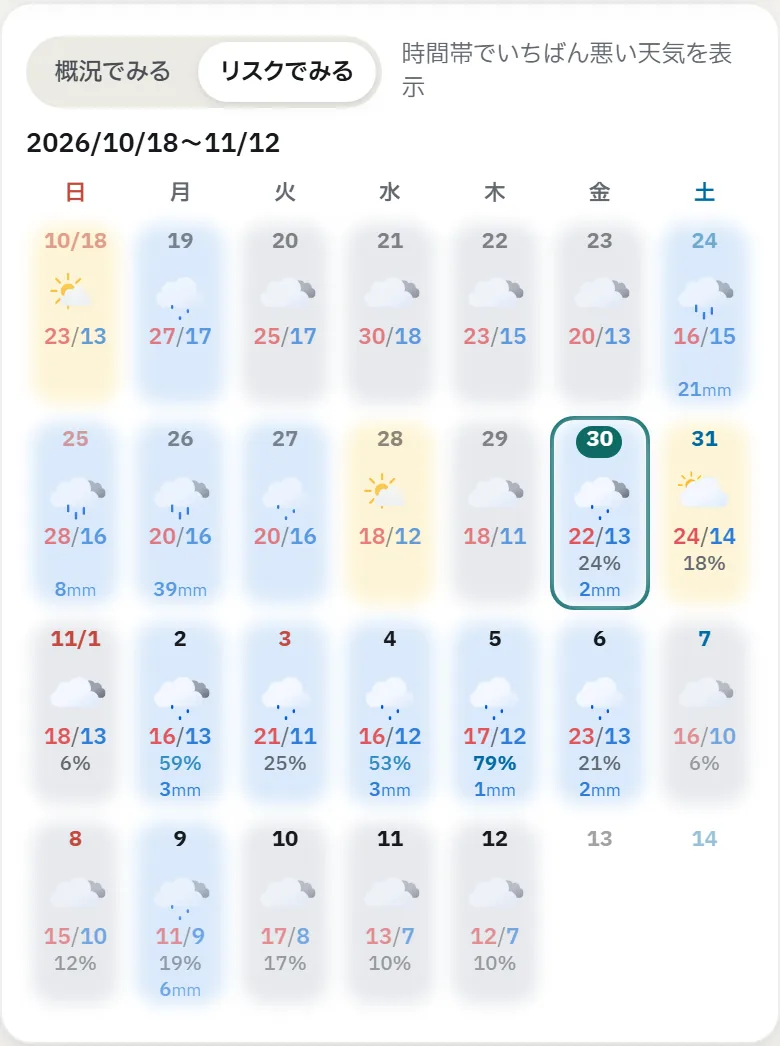
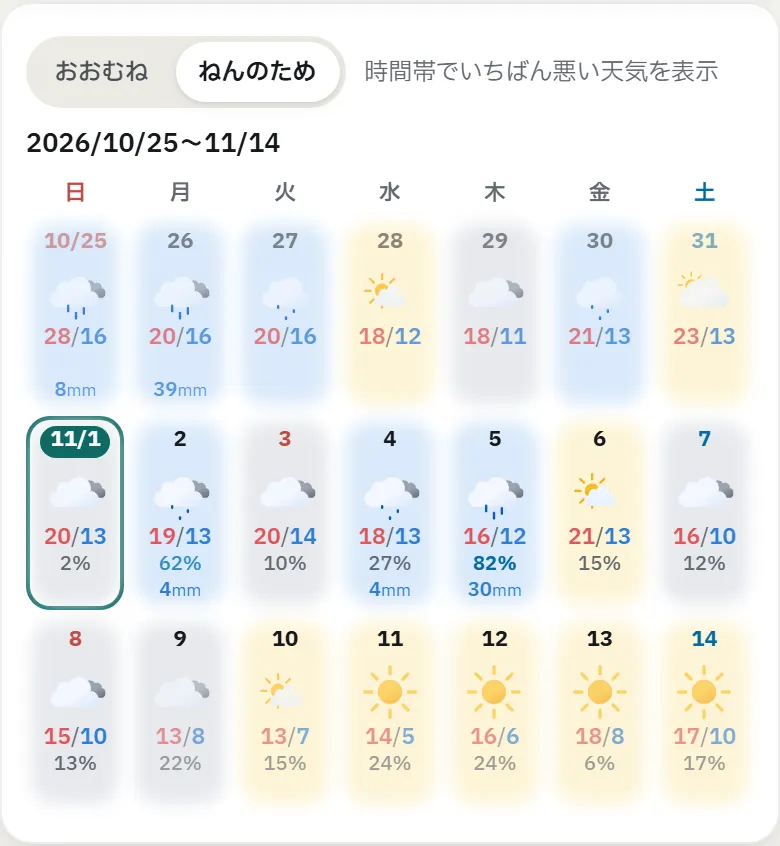
feat: 天気の見かたの名前を「概況でみる／リスクでみる」から「おおむね／ねんのため」に
- 空もよう・空しらべの切り替えボタン、午前・午後・夜間のマスの札、ヘルプの説明を新しい名前に
  （マスでは「おおむね晴れ、ねんのため雨」と読める。値・保存形式 frequency／severity は変えない）
- LP 空もようの章のボタン・箇条書き・作った人の章の文を同じ名前に
- LP の写真4枚を撮り直し（東京・11/1 朝の表示・10/31 の予報）。カレンダーは3週分で 780×846
- 設計書（要件・外部設計・ADR-0013）の表示名を更新

diff --git a/src/components/lp/chapters.test.tsx b/src/components/lp/chapters.test.tsx
@@ -82,12 +82,12 @@ describe('KurabeChapter', () => {
 });
 
 describe('MoyoChapter', () => {
-  it('見出し・2つの見かたの説明・画面写真2枚と説明。最初は「概況でみる」', () => {
+  it('見出し・2つの見かたの説明・画面写真2枚と説明。最初は「おおむね」', () => {
     const { container } = render(<MoyoChapter />);
     expect(screen.getByRole('heading', { name: '雨マークの日でも、畑に出られる時間がすぐわかる。' })).toBeTruthy();
     const buttons = within(container.querySelector('.lp-moyo__modes') as HTMLElement).getAllByRole('button').map((b) => b.textContent);
-    expect(buttons).toEqual(['概況でみる', 'リスクでみる']);
-    expect(screen.getByRole('button', { name: '概況でみる' }).getAttribute('aria-pressed')).toBe('true');
+    expect(buttons).toEqual(['おおむね', 'ねんのため']);
+    expect(screen.getByRole('button', { name: 'おおむね' }).getAttribute('aria-pressed')).toBe('true');
     expect(container.querySelector('.lp-moyo__tap')!.textContent).toBe('タップで切り替え');
     // 切り替えは見出しの下ではなく、写真のすぐ前
     expect(container.querySelector('.lp-moyo__copy .lp-moyo__modes')).toBeNull();
@@ -96,8 +96,8 @@ describe('MoyoChapter', () => {
     expect(screens.firstElementChild!.nextElementSibling!.classList.contains('lp-moyo__shots')).toBe(true);
     expect(container.querySelector('.lp-moyo__caption')!.textContent).toBe('天気の見かたを、2つから選べる。');
     const points = container.querySelector('.lp-moyo__points')!.textContent;
-    expect(points).toContain('概況でみる：いちばん長い天気雨の予報でも、晴れ・くもりの時間が長ければその天気に');
-    expect(points).toContain('リスクでみる：いちばん悪い天気晴れの予報でも、にわか雨や雷が見落としにくい');
+    expect(points).toContain('おおむね：いちばん長い天気雨の予報でも、晴れ・くもりの時間が長ければその天気に');
+    expect(points).toContain('ねんのため：いちばん悪い天気晴れの予報でも、にわか雨や雷が見落としにくい');
     expect(points).toContain('午前（4時〜12時）・午後（12時〜20時）・夜間（20時〜翌4時）');
     expect(points).toContain('1時間ごと、2週間先までの予報を表示');
     expect(points).not.toContain('タップで切り替え');
@@ -110,7 +110,7 @@ describe('MoyoChapter', () => {
       '先週の天気、今日の天気、この先の天気を、ひと目で',
       '作業時間に合わせて、午前（4時〜12時）・午後（12時〜20時）・夜間（20時〜翌4時）で表示',
     ]);
-    expect(screen.getByText('画面は東京・2026年10月30日朝の表示（10月29日時点の予報）。')).toBeTruthy();
+    expect(screen.getByText('画面は東京・2026年11月1日朝の表示（10月31日時点の予報）。')).toBeTruthy();
     for (const w of ['ぽつぽつ', 'カッパ？', 'カッパ！']) expect(screen.getByText(w)).toBeTruthy();
     expect(container.querySelector('.lp-moyo__tablewrap .lp-moyo__rain')).toBeTruthy();
     expect(container.querySelector('.lp-moyo__hourlylead')!.textContent).toBe('1時間ごとの空がわかる。作業が決まる。');
@@ -119,10 +119,10 @@ describe('MoyoChapter', () => {
   });
   it('押すと2枚の写真が一緒に切り替わり、GA4 に記録する（動きを減らす設定でも押せる）', () => {
     const { container } = render(<MoyoChapter />);
-    fireEvent.click(screen.getByRole('button', { name: 'リスクでみる' }));
-    expect(screen.getByRole('button', { name: 'リスクでみる' }).getAttribute('aria-pressed')).toBe('true');
-    expect(screen.getByRole('button', { name: '概況でみる' }).getAttribute('aria-pressed')).toBe('false');
-    expect(container.querySelector('[aria-live="polite"]')!.textContent).toBe('リスクでみる');
+    fireEvent.click(screen.getByRole('button', { name: 'ねんのため' }));
+    expect(screen.getByRole('button', { name: 'ねんのため' }).getAttribute('aria-pressed')).toBe('true');
+    expect(screen.getByRole('button', { name: 'おおむね' }).getAttribute('aria-pressed')).toBe('false');
+    expect(container.querySelector('[aria-live="polite"]')!.textContent).toBe('ねんのため');
     const on = Array.from(container.querySelectorAll('.lp-moyo__shots img.is-on')).map((im) => im.getAttribute('src'));
     expect(on).toEqual(['/lp/moyo-calendar-risk.webp', '/lp/moyo-daily-risk.webp']);
     expect(logLpMoyoToggle).toHaveBeenCalledWith('risk');

diff --git a/src/components/lp/MoyoChapter.tsx b/src/components/lp/MoyoChapter.tsx
@@ -1,6 +1,6 @@
 // src/components/lp/MoyoChapter.tsx
-// 4. 空もよう（午後・晩夏）。写真の直前の「概況でみる／リスクでみる」を押すと、カレンダーと午前・午後・夜間の写真が一緒に切り替わる。
-// 押されるまでは、見えている間だけ自動で切り替える（最初は概況＝アプリの既定）。一度押したら自動切替は止める。
+// 4. 空もよう（午後・晩夏）。写真の直前の「おおむね／ねんのため」を押すと、カレンダーと午前・午後・夜間の写真が一緒に切り替わる。
+// 押されるまでは、見えている間だけ自動で切り替える（最初はおおむね＝アプリの既定）。一度押したら自動切替は止める。
 // 動きを減らす設定では、自動切替と切り替えの動きだけを止め、押して切り替える操作は同じにする。
 import { useEffect, useState, type CSSProperties } from 'react';
 import { logLpMoyoToggle } from '../../lib/analytics';
@@ -9,19 +9,19 @@ import { LineReveal, Shot } from './primitives';
 import './moyo.css';
 
 const MODES = [
-  { key: 'gaikyo', label: '概況でみる' },
-  { key: 'risk', label: 'リスクでみる' },
+  { key: 'gaikyo', label: 'おおむね' },
+  { key: 'risk', label: 'ねんのため' },
 ] as const;
-// 画面は東京・2026年10月30日朝の表示（10月29日夜の予報）。見かたごとに1枚ずつ
+// 画面は東京・2026年11月1日朝の表示（10月31日夕方の予報）。見かたごとに1枚ずつ
 const SHOTS = [
-  { key: 'calendar', name: 'カレンダー', width: 780, height: 1046, caption: ['先週の天気、今日の天気、', 'この先の天気を、ひと目で'] },
+  { key: 'calendar', name: 'カレンダー', width: 780, height: 846, caption: ['先週の天気、今日の天気、', 'この先の天気を、ひと目で'] },
   { key: 'daily', name: '午前・午後・夜間の表', width: 780, height: 608, caption: ['作業時間に合わせて、', '午前（4時〜12時）・', '午後（12時〜20時）・', '夜間（20時〜翌4時）で表示'] },
 ] as const;
 const RAIN_WORDS = ['ぽつぽつ', 'カッパ？', 'カッパ！'];
 // 折り返しは意味のまとまり（lp-phrase）ごと
 const POINTS: { text: string[]; sub?: string[] }[] = [
-  { text: ['概況でみる：', 'いちばん長い天気'], sub: ['雨の予報でも、', '晴れ・くもりの時間が', '長ければその天気に'] },
-  { text: ['リスクでみる：', 'いちばん悪い天気'], sub: ['晴れの予報でも、', 'にわか雨や雷が', '見落としにくい'] },
+  { text: ['おおむね：', 'いちばん長い天気'], sub: ['雨の予報でも、', '晴れ・くもりの時間が', '長ければその天気に'] },
+  { text: ['ねんのため：', 'いちばん悪い天気'], sub: ['晴れの予報でも、', 'にわか雨や雷が', '見落としにくい'] },
   { text: ['1日を、作業時間にあわせた3つに'], sub: ['午前（4時〜12時）・', '午後（12時〜20時）・', '夜間（20時〜翌4時）'] },
   { text: ['1時間ごと、', '2週間先までの予報を表示'] },
 ];
@@ -106,7 +106,7 @@ export function MoyoChapter() {
             </figure>
           ))}
         </div>
-        <p className="lp-moyo__tablenote">画面は東京・2026年10月30日朝の表示（10月29日時点の予報）。</p>
+        <p className="lp-moyo__tablenote">画面は東京・2026年11月1日朝の表示（10月31日時点の予報）。</p>
       </div>
       <div ref={hourlyRef} className={hourlySeen || reduced ? 'lp-moyo__hourly is-in' : 'lp-moyo__hourly'}>
         <p className="lp-moyo__hourlylead"><span className="lp-phrase">1時間ごとの空がわかる。</span><span className="lp-phrase">作業が決まる。</span></p>

diff --git a/src/components/HelpPage.tsx b/src/components/HelpPage.tsx
@@ -184,11 +184,11 @@ export function HelpPage({ onBack }: Props) {
             </thead>
             <tbody>
               <tr>
-                <td style={{ fontWeight: 600, whiteSpace: 'nowrap' }}>概況でみる</td>
-                <td>午前・午後・夜間それぞれの時間帯で、<strong>いちばん長い天気</strong>を代表アイコンとして表示します。まず降っていない時間（晴れ・くもり）と降っている時間（雨・雪・雷）を比べ、長い方（同じなら降っている方）の中で最も多い天気を選びます。外で作業できる時間の長さをつかみたいときに使います。カレンダーの1日は、午前と午後（4〜20時）で決めます。晴れでも雨量が出ている日は、降る時間が短い日です。雨の時間は「リスクでみる」や時間別の表で確かめられます。（デフォルト）</td>
+                <td style={{ fontWeight: 600, whiteSpace: 'nowrap' }}>おおむね</td>
+                <td>午前・午後・夜間それぞれの時間帯で、<strong>いちばん長い天気</strong>を代表アイコンとして表示します。まず降っていない時間（晴れ・くもり）と降っている時間（雨・雪・雷）を比べ、長い方（同じなら降っている方）の中で最も多い天気を選びます。外で作業できる時間の長さをつかみたいときに使います。カレンダーの1日は、午前と午後（4〜20時）で決めます。晴れでも雨量が出ている日は、降る時間が短い日です。雨の時間は「ねんのため」や時間別の表で確かめられます。（デフォルト）</td>
               </tr>
               <tr>
-                <td style={{ fontWeight: 600, whiteSpace: 'nowrap' }}>リスクでみる</td>
+                <td style={{ fontWeight: 600, whiteSpace: 'nowrap' }}>ねんのため</td>
                 <td>午前・午後・夜間それぞれの時間帯で、<strong>最も悪い天気コード</strong>を代表アイコンとして表示します。悪天候を見逃したくないときに使います。カレンダーの1日は、夜間を含めた24時間（4時〜翌4時）で最も悪い天気を表示します。</td>
               </tr>
             </tbody>
@@ -197,7 +197,7 @@ export function HelpPage({ onBack }: Props) {
           <h3 style={H3_STYLE}>ミニアイコンタグ</h3>
           <p style={P_STYLE}>
             各時間帯セルのアイコン下には、<strong>現在選んでいないモードの天気</strong>を小さなタグで表示しています。
-            「概況でみる」選択中はピンク色のタグがリスクの天気を、「リスクでみる」選択中はティール色のタグが概況の天気を補足表示します。
+            「おおむね」選択中はピンク色のタグが「ねんのため」の天気を、「ねんのため」選択中はティール色のタグが「おおむね」の天気を補足表示します。
             2つのモードの違いが大きい日（たとえば夜だけ雨が降るなど）を一目で確認できます。
           </p>
         </section>

diff --git a/src/components/lp/MakerChapter.tsx b/src/components/lp/MakerChapter.tsx
@@ -15,7 +15,7 @@ export function MakerChapter() {
           畑のてんきは、農作業の判断を助け、作物の生育を可視化したい。そう考えた一人の農家が、「現場で欲しかったもの」を詰め込んだアプリです。
         </p>
         <p>
-          積算温度を自動で計算し、昨年と何日違うかを並べて表示。天気は「概況」と「リスク」を切り替えて確認でき、1日は畑に出る時間に合わせて午前・午後・夜間に分割。こうした機能は、机の上ではなく、現場で使いながら磨いてきたものばかりです。
+          積算温度を自動で計算し、昨年と何日違うかを並べて表示。天気は「おおむね」と「ねんのため」を切り替えて確認でき、1日は畑に出る時間に合わせて午前・午後・夜間に分割。こうした機能は、机の上ではなく、現場で使いながら磨いてきたものばかりです。
         </p>
       </div>
       <LpDetails />

diff --git a/src/lib/wmoSeverity.test.ts b/src/lib/wmoSeverity.test.ts
@@ -3,7 +3,7 @@ import { modeCode, selectCode } from './wmoSeverity';
 
 const rep = (code: number, n: number) => Array<number>(n).fill(code);
 
-describe('modeCode（概況でみる）', () => {
+describe('modeCode（おおむね）', () => {
   it('降っていない時間（晴れ＋曇り）が長ければ、雨の時間がまとまっていても降っていない方（高山村 10/31: 晴れ18・霧雨弱6）', () => {
     expect(modeCode([...rep(1, 10), ...rep(0, 8), ...rep(51, 6)])).toBe(1);
   });
@@ -35,7 +35,7 @@ describe('modeCode（概況でみる）', () => {
     expect(modeCode([...rep(51, 3), ...rep(61, 3), ...rep(0, 2)])).toBe(61);
   });
 
-  it('空の配列は null・リスクでみるは変わらず最も悪いコード', () => {
+  it('空の配列は null・ねんのためは変わらず最も悪いコード', () => {
     expect(modeCode([])).toBeNull();
     expect(selectCode([0, 0, 61, 95, 0], 'severity')).toBe(95);
     expect(selectCode([0, 0, 61, 95, 0], 'frequency')).toBe(0);

diff --git a/src/components/weather/DailyForecast.tsx b/src/components/weather/DailyForecast.tsx
@@ -469,7 +469,7 @@ export function DailyForecast({ daily, weatherCodeMode, onHalfDayClick, jmaWarni
                   );
                 }
                 const altMode         = weatherCodeMode === 'severity' ? 'frequency' : 'severity';
-                const altModeLabel    = altMode === 'frequency' ? '概況' : 'リスク';
+                const altModeLabel    = altMode === 'frequency' ? 'おおむね' : 'ねんのため';
                 const altModeTagStyle: CSSProperties = altMode === 'frequency'
                   ? { background: 'white', color: 'var(--accent)', border: '1px solid rgba(var(--accent-rgb),0.3)' }
                   : { background: 'white', color: '#7a2840',       border: '1px solid rgba(244,167,185,0.6)' };

diff --git a/src/components/weather/HistoricalWeatherTab.tsx b/src/components/weather/HistoricalWeatherTab.tsx
@@ -236,8 +236,8 @@ export function HistoricalWeatherTab({ request }: { request?: HistoryRequest | n
                 ariaLabel="天気アイコンの表示基準"
                 layoutId="history-code-mode"
                 options={[
-                  { value: 'frequency', label: '概況でみる' },
-                  { value: 'severity', label: 'リスクでみる' },
+                  { value: 'frequency', label: 'おおむね' },
+                  { value: 'severity', label: 'ねんのため' },
                 ]}
                 value={weatherCodeMode}
                 onChange={updateWeatherCodeMode}

diff --git a/src/components/weather/WeatherTab.tsx b/src/components/weather/WeatherTab.tsx
@@ -372,8 +372,8 @@ export function WeatherTab({ onOpenHistory }: { onOpenHistory?: (req: HistoryReq
                 ariaLabel="天気アイコンの表示基準"
                 layoutId="weather-code-mode"
                 options={[
-                  { value: 'frequency', label: '概況でみる' },
-                  { value: 'severity', label: 'リスクでみる' },
+                  { value: 'frequency', label: 'おおむね' },
+                  { value: 'severity', label: 'ねんのため' },
                 ]}
                 value={weatherCodeMode}
                 onChange={updateWeatherCodeMode}

diff --git a/src/lib/analytics.ts b/src/lib/analytics.ts
@@ -93,7 +93,7 @@ export function logLpChapterView(chapter: string): void {
   track('lp_chapter_view', { chapter });
 }
 
-/** LP の空もようで「リスクでみる／概況でみる」が押された（触れる仕掛けが効いているか） */
+/** LP の空もようで「ねんのため／おおむね」が押された（触れる仕掛けが効いているか） */
 export function logLpMoyoToggle(mode: string): void {
   track('lp_moyo_toggle', { mode });
 }

diff --git a/docs/design/06-adr.md b/docs/design/06-adr.md
@@ -149,7 +149,7 @@
 **文脈:** 空もようの日別ブロックで「リスクでみる（最も深刻）」「概況でみる（最も頻度が高い）」を切替表示する。
 **決定:** 2モードの差は `selectCode()` によるクライアント側計算のみとし、API レスポンスは同一。`useForecast` のキャッシュキーは `${lat},${lon}` とし **mode を含めない**。モード設定は Firestore に永続。
 **理由:** モードをキャッシュキーに含めると切替のたびに Open-Meteo を再フェッチ（1〜3秒）してしまう。生データ（hourlyコード配列）を保持し `selectCode` の適用を分離すれば即時切替できる。
-**結果:** タイブレークは `wmoSeverity.ts` の深刻度スコア（26段階）で決める。
+**結果:** タイブレークは `wmoSeverity.ts` の深刻度スコア（26段階）で決める。2026-10-31 に表示名を「ねんのため」（severity）／「おおむね」（frequency）へ変更（値・保存形式は変えない）。
 
 <a id="adr-0014"></a>
 ## ADR-0014: AI モデルは Gemini 2.5 Flash（flash-lite 却下）＋文字数短縮
